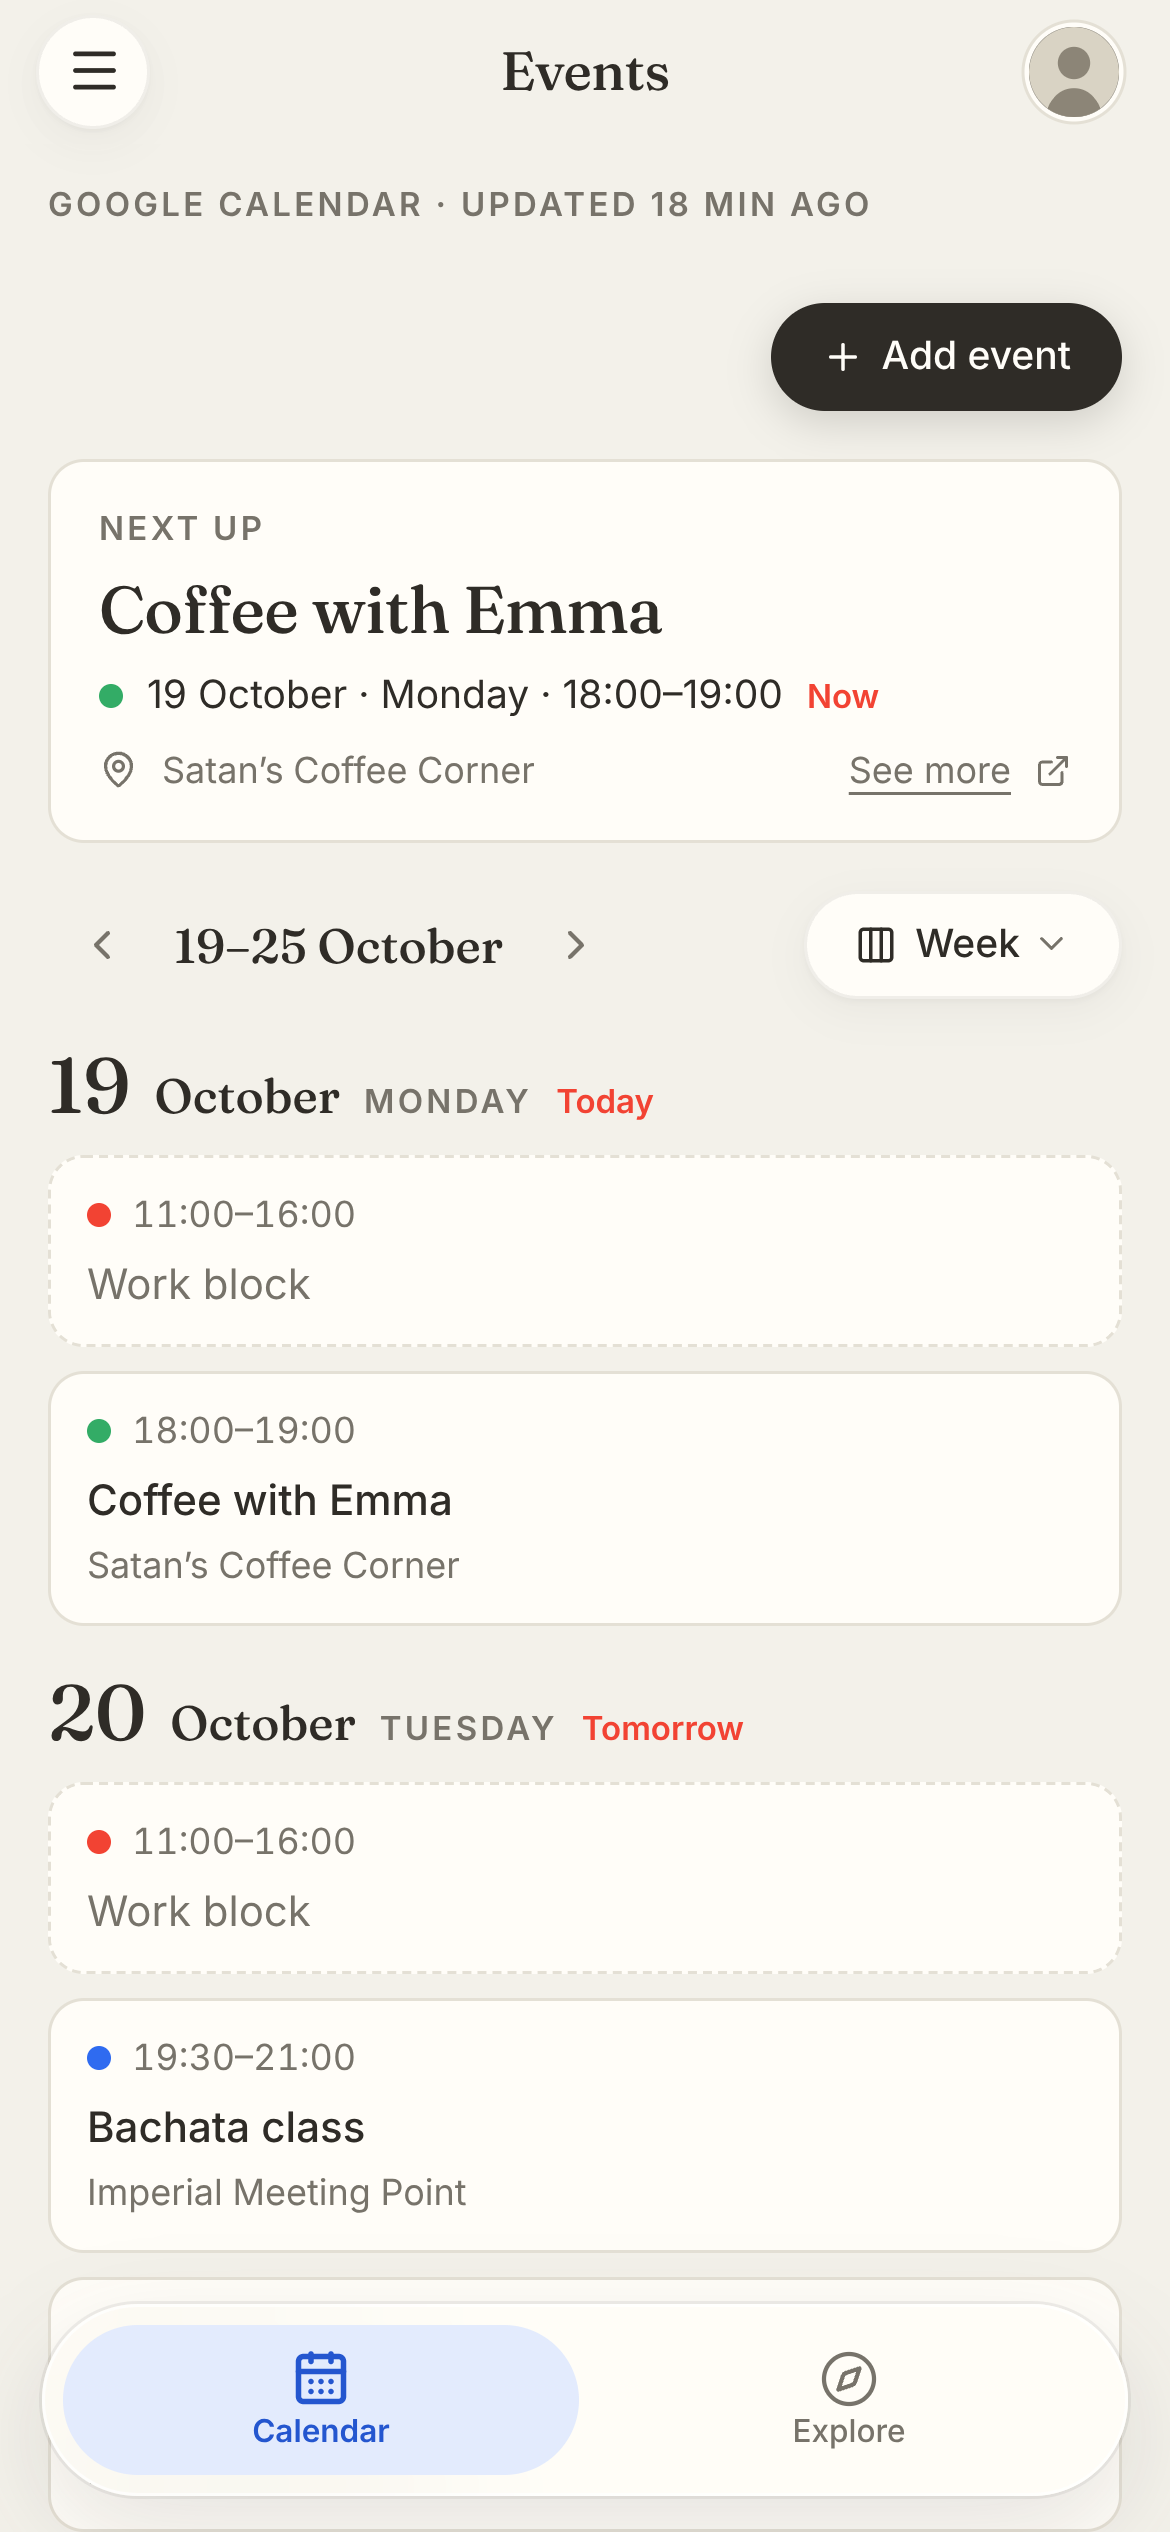
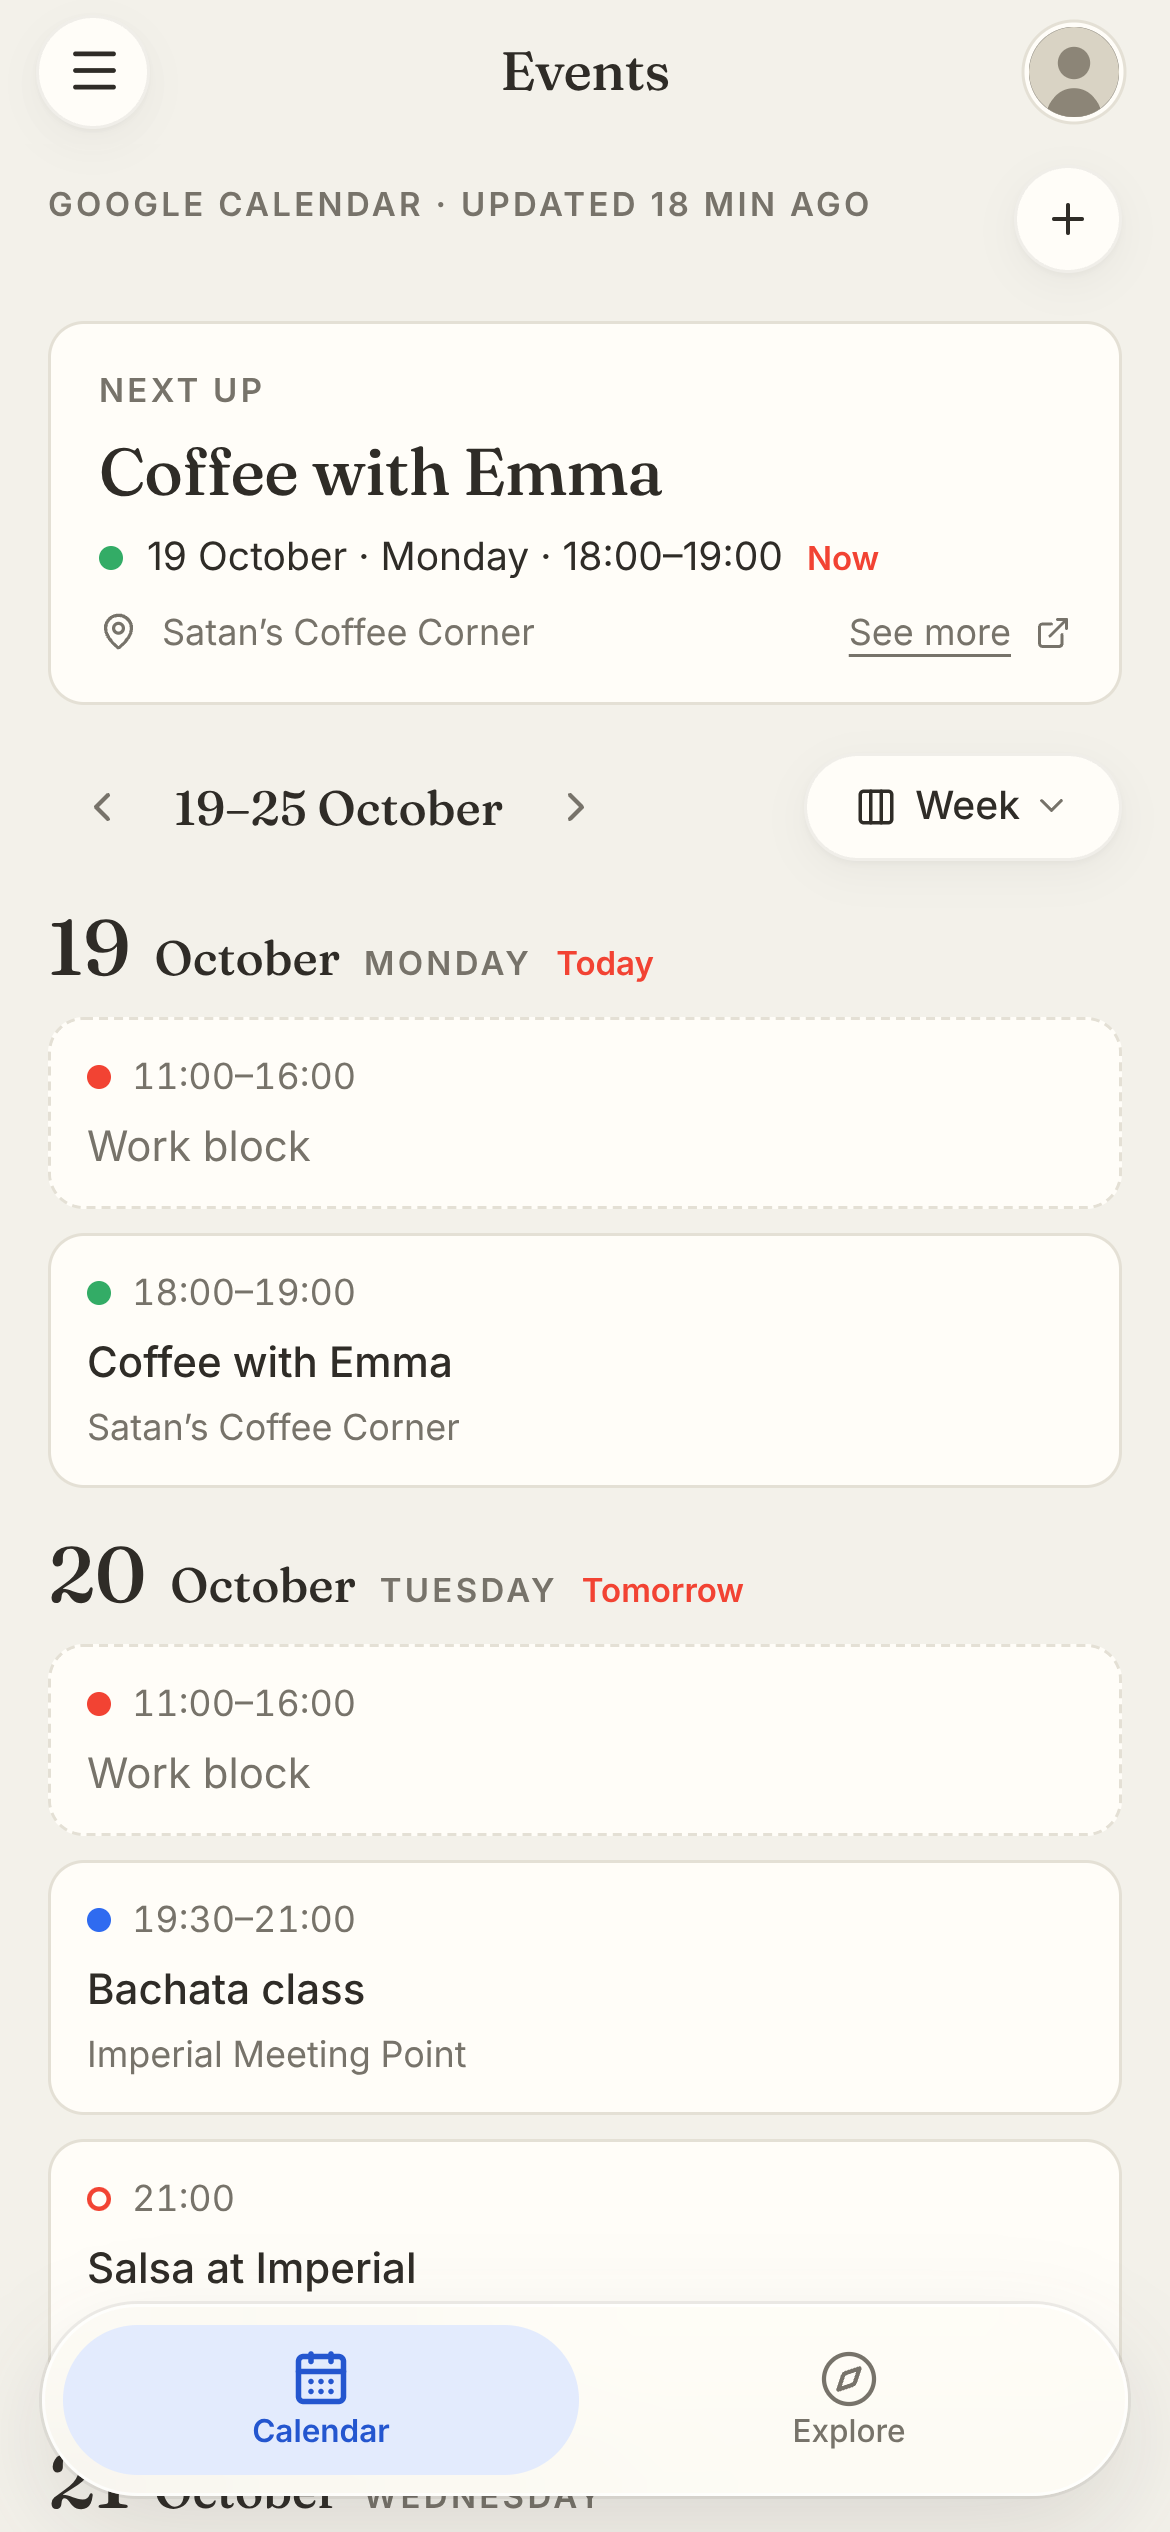
Events on phone: Add event is a round + beside the eyebrow, no overlap
Claude-Session: https://claude.ai/code/session_014Egirv3gvbTzrnHaoEqViP

diff --git a/src/pages/Events.jsx b/src/pages/Events.jsx
@@ -6,7 +6,7 @@ import { useEvents, toDate, CATS } from '../events.js'
 import { useProfile } from '../profile.js'
 import { ago, dayKey, fmtTime } from '../lib.js'
 import ViewMenu from '../components/ViewMenu.jsx'
-import { Controls, Empty, Tabs } from '../components/Controls.jsx'
+import { Controls, Empty, RoundButton, Tabs, useIsPhone } from '../components/Controls.jsx'
 
 const MONTHS = ['January', 'February', 'March', 'April', 'May', 'June', 'July', 'August', 'September', 'October', 'November', 'December']
 const WEEKDAYS = ['Sunday', 'Monday', 'Tuesday', 'Wednesday', 'Thursday', 'Friday', 'Saturday']
@@ -285,6 +285,7 @@ function Explore({ picks, city = 'Barcelona', all, add }) {
 }
 
 export default function Events() {
+  const phone = useIsPhone()
   const { all, picks, picksCity, syncedAt, remove, add } = useEvents()
   const [params, setParams] = useSearchParams()
   const tab = params.get('tab') === 'explore' ? 'explore' : 'calendar'
@@ -308,7 +309,9 @@ export default function Events() {
     <div className="page">
       <PageHeader eyebrow={syncedAt ? `Google Calendar · updated ${ago(syncedAt)}` : 'Google Calendar syncs hourly'} title="Events" />
 
-      <Controls end={<button className={'btn' + (adding ? '' : ' primary')} onClick={() => setAdding((a) => !a)}>{adding ? 'Cancel' : <><Plus size={14} /> Add event</>}</button>}>
+      <Controls end={phone
+        ? <RoundButton label={adding ? 'Cancel' : 'Add event'} on={adding} onClick={() => setAdding((a) => !a)}>{adding ? <X size={16} /> : <Plus size={16} />}</RoundButton>
+        : <button className={'btn' + (adding ? '' : ' primary')} onClick={() => setAdding((a) => !a)}>{adding ? 'Cancel' : <><Plus size={14} /> Add event</>}</button>}>
         <Tabs tabs={[{ k: 'calendar', label: 'Calendar', icon: CalendarDays }, { k: 'explore', label: 'Explore', icon: Compass }]} value={tab} onPick={setTab} />
       </Controls>
 
